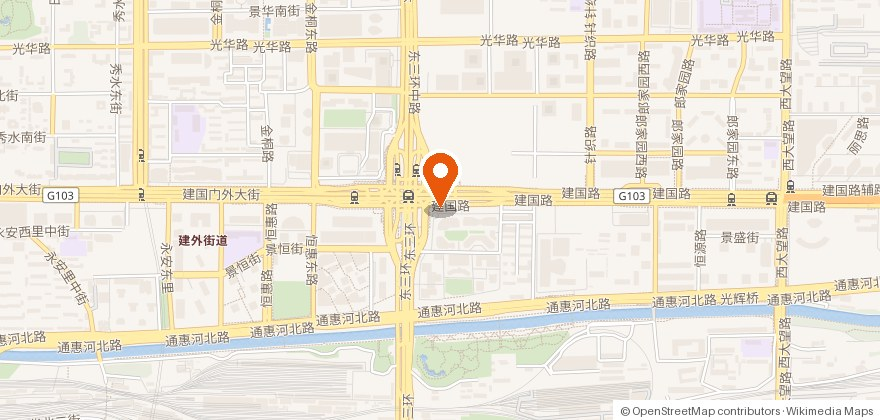
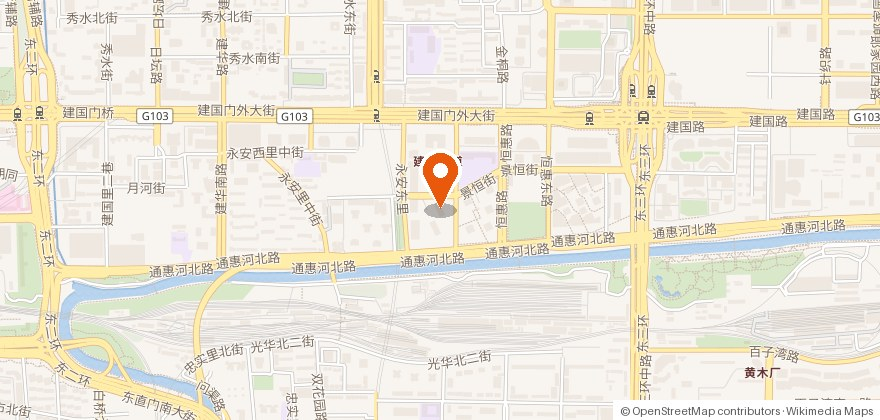
contact maps: self-hosted static map images, verified pins (Jianwai SOHO West Tower 16 / Gran Via 40) + Google Maps directions links

diff --git a/contact.html b/contact.html
@@ -217,7 +217,7 @@
           <h3 data-page-node-id="kGOEk2vC7NdbKdbO8HA5kn">Beijing</h3>
         </div>
         <img class="map-img" loading="lazy" title="Beijing office location" src="assets/map-beijing.jpg" alt="Map of central Beijing marking the CWE headquarters at Jianwai SOHO" data-page-node-id="K0O8CUVJ1JhOFufjAo9eqW">
-        <div class="foot" data-page-node-id="ZjGk7TZcTJGSd57EO3YIrb"><a href="https://www.google.com/maps/search/?api=1&query=39.9066,116.4570" target="_blank" rel="noopener" data-page-node-id="nJDKUByUqpBzdQBqWaTT9K">Open in Google Maps →</a></div>
+        <div class="foot" data-page-node-id="ZjGk7TZcTJGSd57EO3YIrb"><a href="https://www.google.com/maps/search/?api=1&query=39.90400,116.44690" target="_blank" rel="noopener" data-page-node-id="nJDKUByUqpBzdQBqWaTT9K">Open in Google Maps →</a></div>
       </div>
       <div class="map-card" data-page-node-id="U5PHJyEocOC7WZUt4lRovO">
         <div class="head" data-page-node-id="WPJCg45DPl4PvjyEAK9g6X">
@@ -225,7 +225,7 @@
           <h3 data-page-node-id="NhEIfMQ5WGAdIXaxdETe4z">Madrid</h3>
         </div>
         <img class="map-img" loading="lazy" title="Madrid office location" src="assets/map-madrid.jpg" alt="Map of central Madrid marking the CWE European office on Gran Vía" data-page-node-id="kQMoOsK5rHfdK9XNtt6mz1">
-        <div class="foot" data-page-node-id="xRUVsT8XVmVAF868UwbHBl"><a href="https://www.google.com/maps/search/?api=1&query=40.4201,-3.7069" target="_blank" rel="noopener" data-page-node-id="bmbusafYPCWEwHJeTalGDD">Open in Google Maps →</a></div>
+        <div class="foot" data-page-node-id="xRUVsT8XVmVAF868UwbHBl"><a href="https://www.google.com/maps/search/?api=1&query=40.42041,-3.70504" target="_blank" rel="noopener" data-page-node-id="bmbusafYPCWEwHJeTalGDD">Open in Google Maps →</a></div>
       </div>
 
   </div>
